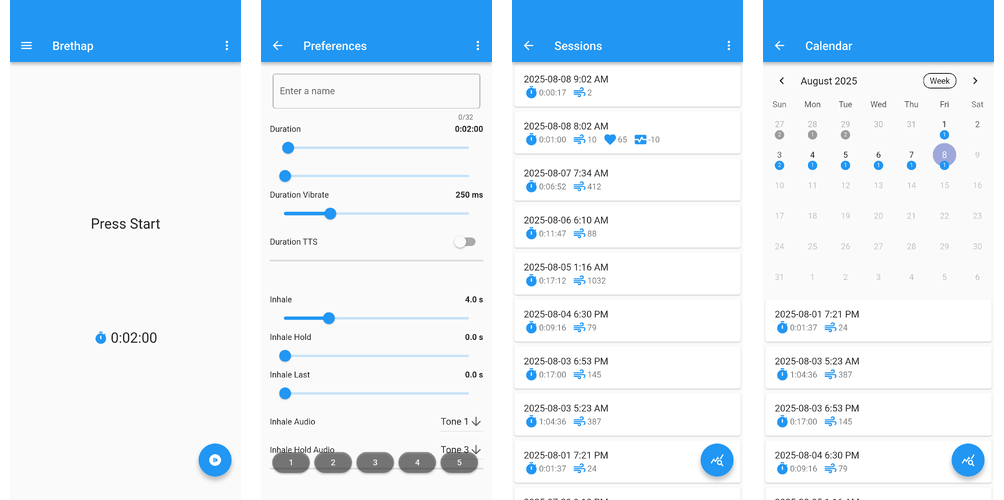
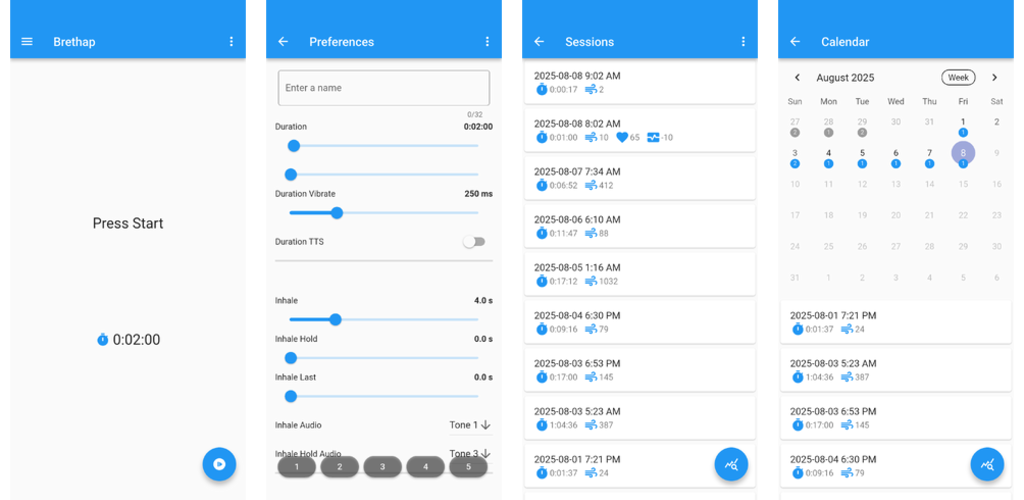
Update feature graphic

diff --git a/screenshots/README.md b/screenshots/README.md
@@ -17,5 +17,5 @@ ffmpeg -y -i screenshots/android/<video>.mp4 -vcodec libwebp -filter:v fps=fps=1
 
 To create feature graphic, run:
 ```
-montage fastlane/metadata/android/en-US/images/phoneScreenshots/[1,4,6,8]*.png -tile x1 -geometry x500+10 -background transparent fastlane/metadata/android/en-US/images/featureGraphic.png && mogrify -gravity Center -crop 1024x500+0+0 fastlane/metadata/android/en-US/images/featureGraphic.png 
+montage fastlane/metadata/android/en-US/images/phoneScreenshots/[1,4,6,8]*.png -tile x1 -geometry x500+10 -background transparent fastlane/metadata/android/en-US/images/featureGraphic.png && mogrify -resize 1024x500^ -gravity Center -crop 1024x500+0+0 fastlane/metadata/android/en-US/images/featureGraphic.png 
 ```
